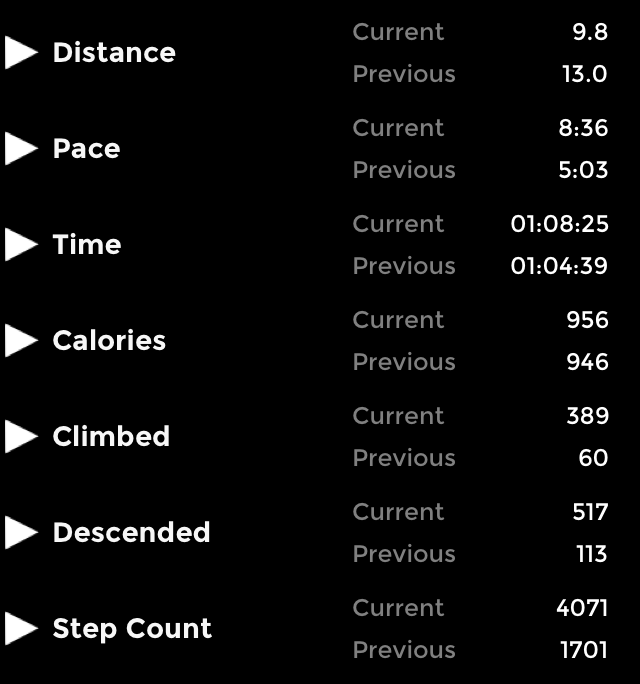
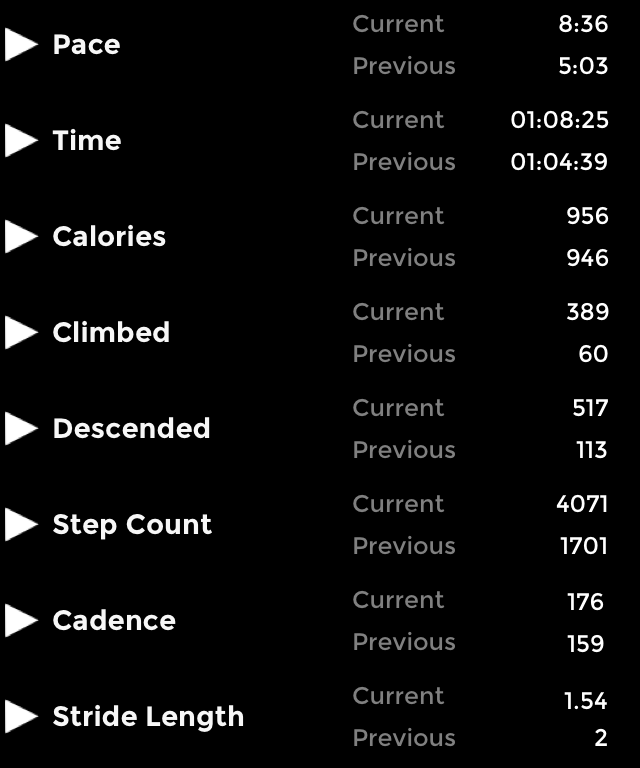
corrections for additional stats

diff --git a/RunnersCompass/PerformanceVC.m b/RunnersCompass/PerformanceVC.m
@@ -120,7 +120,7 @@
 {
     //return number of charts
     BOOL purchase = [[prefs purchased] boolValue];
-    return (purchase) ? MetricTypeSteps : MetricTypeActivityCount; //for pr cell
+    return (purchase) ? MetricTypeStride : MetricTypeActivityCount; //for pr cell
 }
 
 // Customize the appearance of table view cells.
